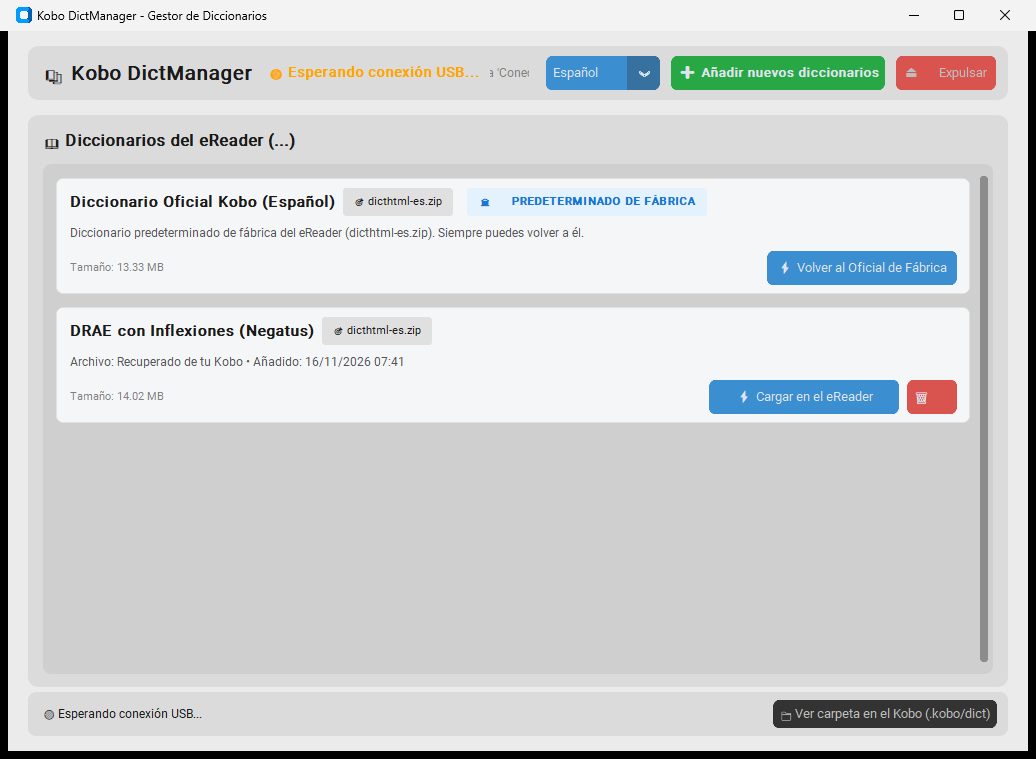
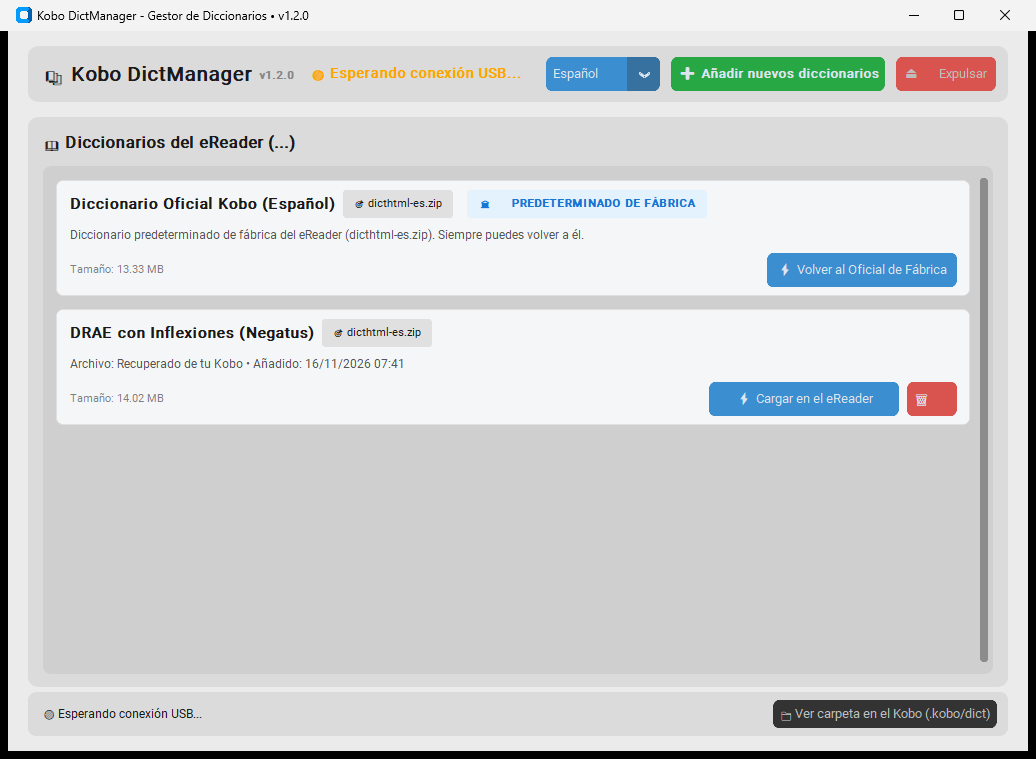
Add visible version indicator (v1.2.0) to UI and update screenshot

diff --git a/kobo_dict_manager.py b/kobo_dict_manager.py
@@ -25,6 +25,8 @@ from tkinter import filedialog, messagebox
 
 import customtkinter as ctk
 
+APP_VERSION = "1.2.0"
+
 # Configuración visual
 ctk.set_appearance_mode("System")
 ctk.set_default_color_theme("blue")
@@ -1093,7 +1095,7 @@ class ModernDictManagerApp(ctk.CTk):
 
         self.current_lang = load_saved_language()
 
-        self.title(self.t("app_title"))
+        self.title(f"{self.t('app_title')} • v{APP_VERSION}")
         self.geometry("1020x720")
         self.minsize(920, 620)
 
@@ -1132,7 +1134,7 @@ class ModernDictManagerApp(ctk.CTk):
                 save_language_preference(code)
                 break
 
-        self.title(self.t("app_title"))
+        self.title(f"{self.t('app_title')} • v{APP_VERSION}")
         self.add_btn.configure(text=self.t("add_dicts_btn"))
         self.eject_btn.configure(text=self.t("eject_btn"))
         self.open_dict_folder_btn.configure(text=self.t("open_folder_btn"))
@@ -1151,12 +1153,23 @@ class ModernDictManagerApp(ctk.CTk):
         self.header_frame.grid(row=0, column=0, padx=20, pady=(15, 10), sticky="ew")
         self.header_frame.grid_columnconfigure(1, weight=1)
 
+        self.logo_frame = ctk.CTkFrame(self.header_frame, fg_color="transparent")
+        self.logo_frame.grid(row=0, column=0, padx=(15, 12), pady=12, sticky="w")
+
         self.logo_label = ctk.CTkLabel(
-            self.header_frame,
+            self.logo_frame,
             text="📚 Kobo DictManager",
             font=ctk.CTkFont(size=20, weight="bold")
         )
-        self.logo_label.grid(row=0, column=0, padx=(15, 12), pady=12, sticky="w")
+        self.logo_label.pack(side="left")
+
+        self.version_badge = ctk.CTkLabel(
+            self.logo_frame,
+            text=f"v{APP_VERSION}",
+            font=ctk.CTkFont(size=11, weight="bold"),
+            text_color="#888888"
+        )
+        self.version_badge.pack(side="left", padx=(7, 0), pady=(4, 0))
 
         self.device_status_frame = ctk.CTkFrame(self.header_frame, fg_color="transparent")
         self.device_status_frame.grid(row=0, column=1, padx=5, pady=12, sticky="w")
